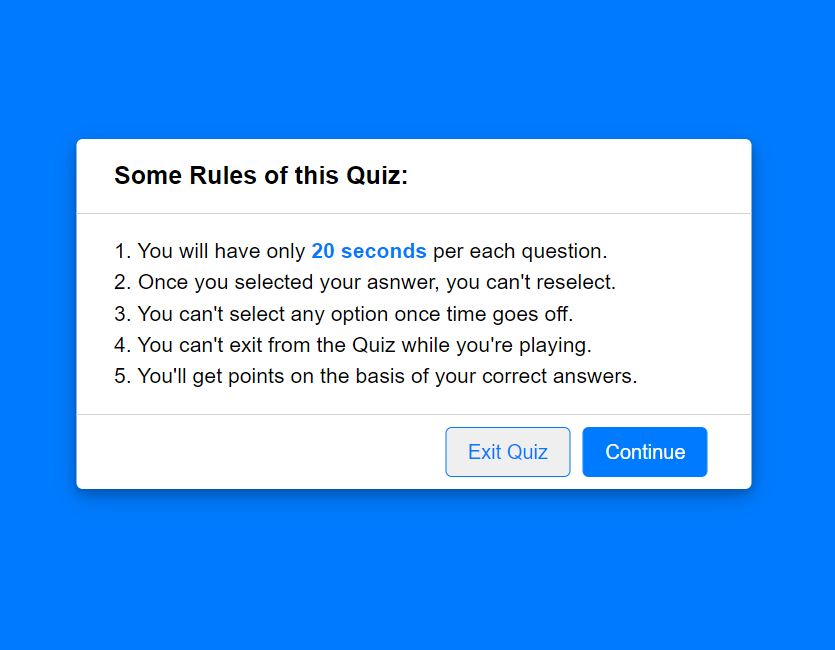
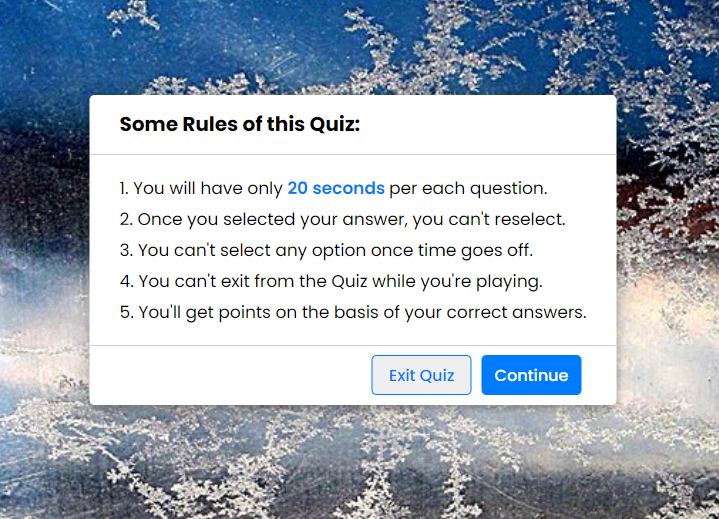
Add changes

diff --git a/assets/css/style.css b/assets/css/style.css
@@ -8,14 +8,12 @@
     font-family: 'Poppins', sans-serif;
 }
 body {
-    background: url('../images/lipuv2rvid.jpg') no-repeat;
+    background: url('../images/lipuvärvid.jpg') no-repeat; /*https://pildiait.erm.ee/lipuvarvid-varahommikul/ */
     background-size: cover;
     height: 100vh;
     width: 100vw;
-    overflow:hidden;
-    
+    overflow: scroll;
 }
-
 ::selection{
     color: #fff;
     background: #007bff;
@@ -27,6 +25,7 @@ body {
     position: absolute;
     top: 50%;
     left: 50%;
+    overflow: hidden;
     transform: translate(-50%, -50%);
     box-shadow: 0 4px 8px 0 rgba(0, 0, 0, 0.2),
                 0 6px 20px 0 rgba(0, 0, 0, 0.19);
@@ -371,15 +370,23 @@ footer .button:hover{
 }
 /* Media queries */
 
-/* For larger to medium screens size from 1200px wide and down */
-
-@media screen and (max-width: 1200px){}
 /* For medium screen sizes from 950px wide and down */
-@media screen and (max-width: 950px){}
+@media screen and (max-width: 950px){
+    body{
+        overflow: scroll;
+    }
+    .quiz_box{
+        width: 450px;
+    }
+}
 /* for small screen sizes 800px and down */
 
 @media screen and (max-width: 760px){
-    .quiz_box {
+    body{
+        overflow: scroll;
+    }
+    .quiz_box{
         width: 350px;
+        height:80vh;
     }
 };

diff --git a/assets/js/script.js b/assets/js/script.js
@@ -1,3 +1,4 @@
+/*jshint esversion: 6 */
 //selecting all required elements
 const start_btn = document.querySelector(".start_btn button");
 const info_box = document.querySelector(".info_box");

diff --git a/README.md b/README.md
@@ -55,8 +55,6 @@ This project was written in HTML, CSS & JavaScript using GitHub.
 * Result box consists icon - a trophy, text in the middle, and buttons for replay or quit options 
 
 
-
-
 ## Future Features
 
 # Testing
@@ -104,13 +102,15 @@ The live link can be found here - [Quiz about Estonia](https://helej.github.io/q
 
 ## Content
 
+### Code
+
 * The code to make my second project was taken from Youtube 
 * I part:["Create a Quiz App with Timer using HTML CSS & JavaScript"](https://www.youtube.com/watch?v=pQr4O1OITJo&t=1324s) 
 * II part from [here](https://www.youtube.com/watch?v=WUBhpSRS_fk&t=5s)
 
 The first video instructing how to build up contennt using HTML and CSS, and the  video was JavaScript tutorial. Codes from both videos have been edited to fit the needs of the Quiz about Estonia website. I wish I could have written all of the JavaScript code independently, however I felt that using some pre-made code that already did (almost) what I needed it to, would improve the standard of code, decrease the chance of potential bugs and allow me to work within the timeframe to meet the deadline for the project. I was able to edit and add things to the code as and when I needed to be able to make the web-quiz interactivity how I had imagined it during the planning phase.
 
- Questions and answers in the web-quiz were found and worded by myself
+### Questions and answers in the web-quiz were found and worded by myself
 
 * Material for question 2 [Kiiking](https://kiikest.ee/eng/kiiking/)
 
